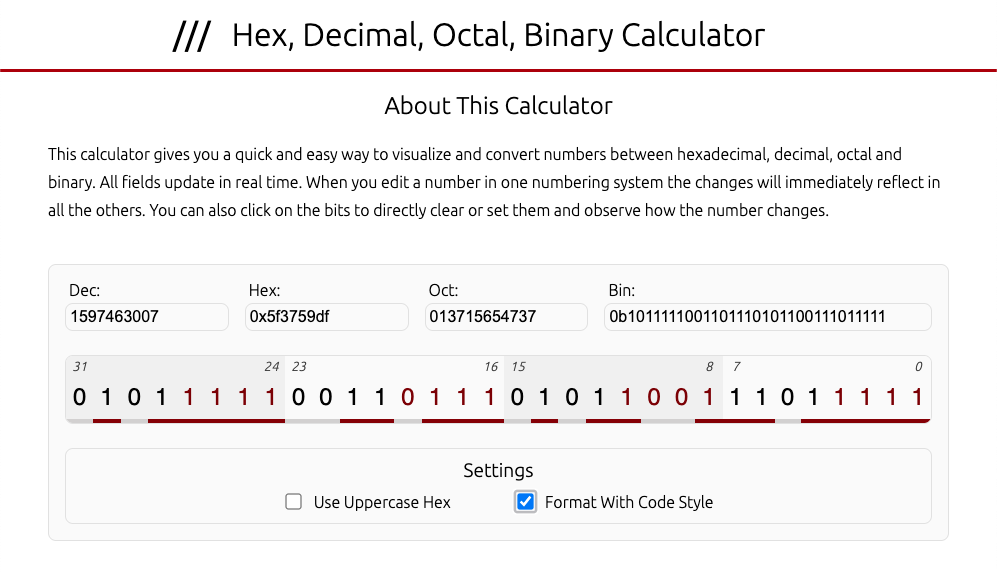
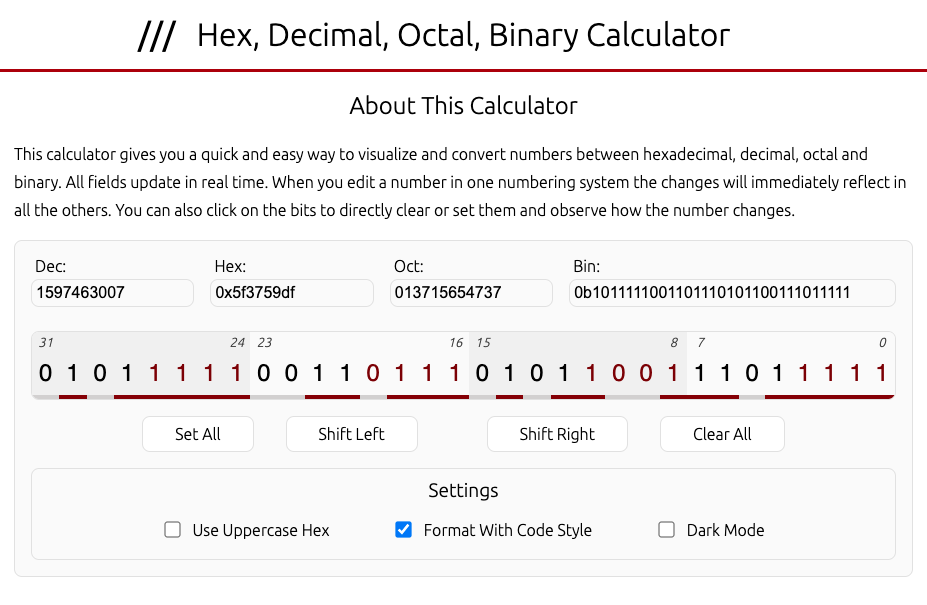
update to include new photo and info on dark mode features

diff --git a/_projects/calc50x.md b/_projects/calc50x.md
@@ -21,7 +21,7 @@ For weeks I hoped that someone would make a suitable replacement... until I real
 
 In addition to Javascript, I also took the opportunity to modernize my CSS skills by learning and using CSS Grid in the layout, as well as adopting a "mobile-first" design workflow for the first time.
 
-In November 2021 (almost a year later), I spruced up the appearance and added support for bit shifting, code-like formatting, uppercase hexadecimal, and 32-bit numbers.
+In November 2021 (almost a year later), I spruced up the visuals and added support for bit shifting, code-like formatting, uppercase hexadecimal, 32-bit numbers, local storage of settings, and dark mode 😎.
 
 ## Styling and Search Engine Optimization (SEO)
 The CSS for the site was developed "mobile-first". This means that the site was first designed for small screens. As the screen size is increased CSS rule tweaks are made to make better use of the available room. Designing mobile-first is unintuitive at first - after all, web development is primarily performed on a desktop or laptop computer with a larger screen. However, mobile now accounts for over half of the world's web traffic. The Google indexer simulates a mobile device when it crawls the web and determines page quality and search rank, which makes having an excellent mobile site a requirement for search engine optimization (SEO). Finally, there are arguments that mobile-first forces designers to optimize their websites primarily for content, due limited screen real-estate. "Content is key" is an expression that is commonly used in SEO circles that relates to this concept. 
